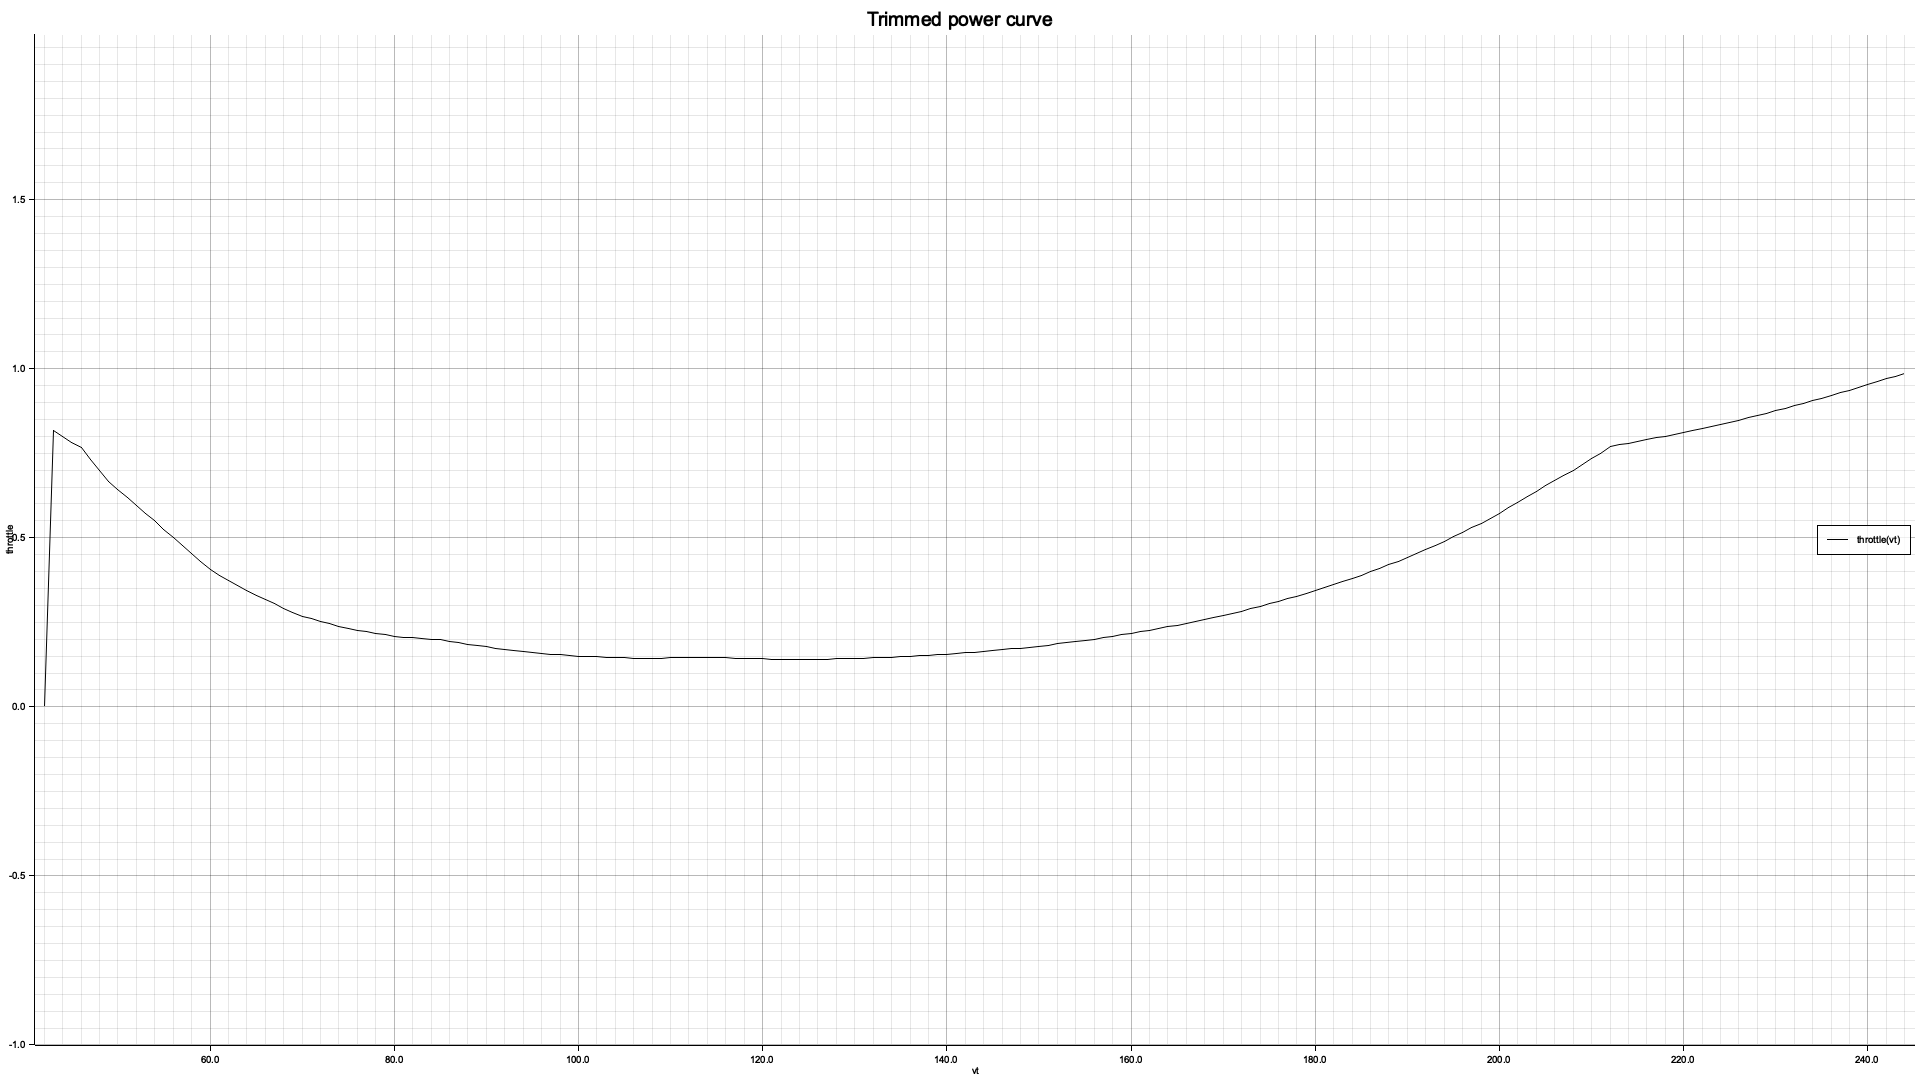
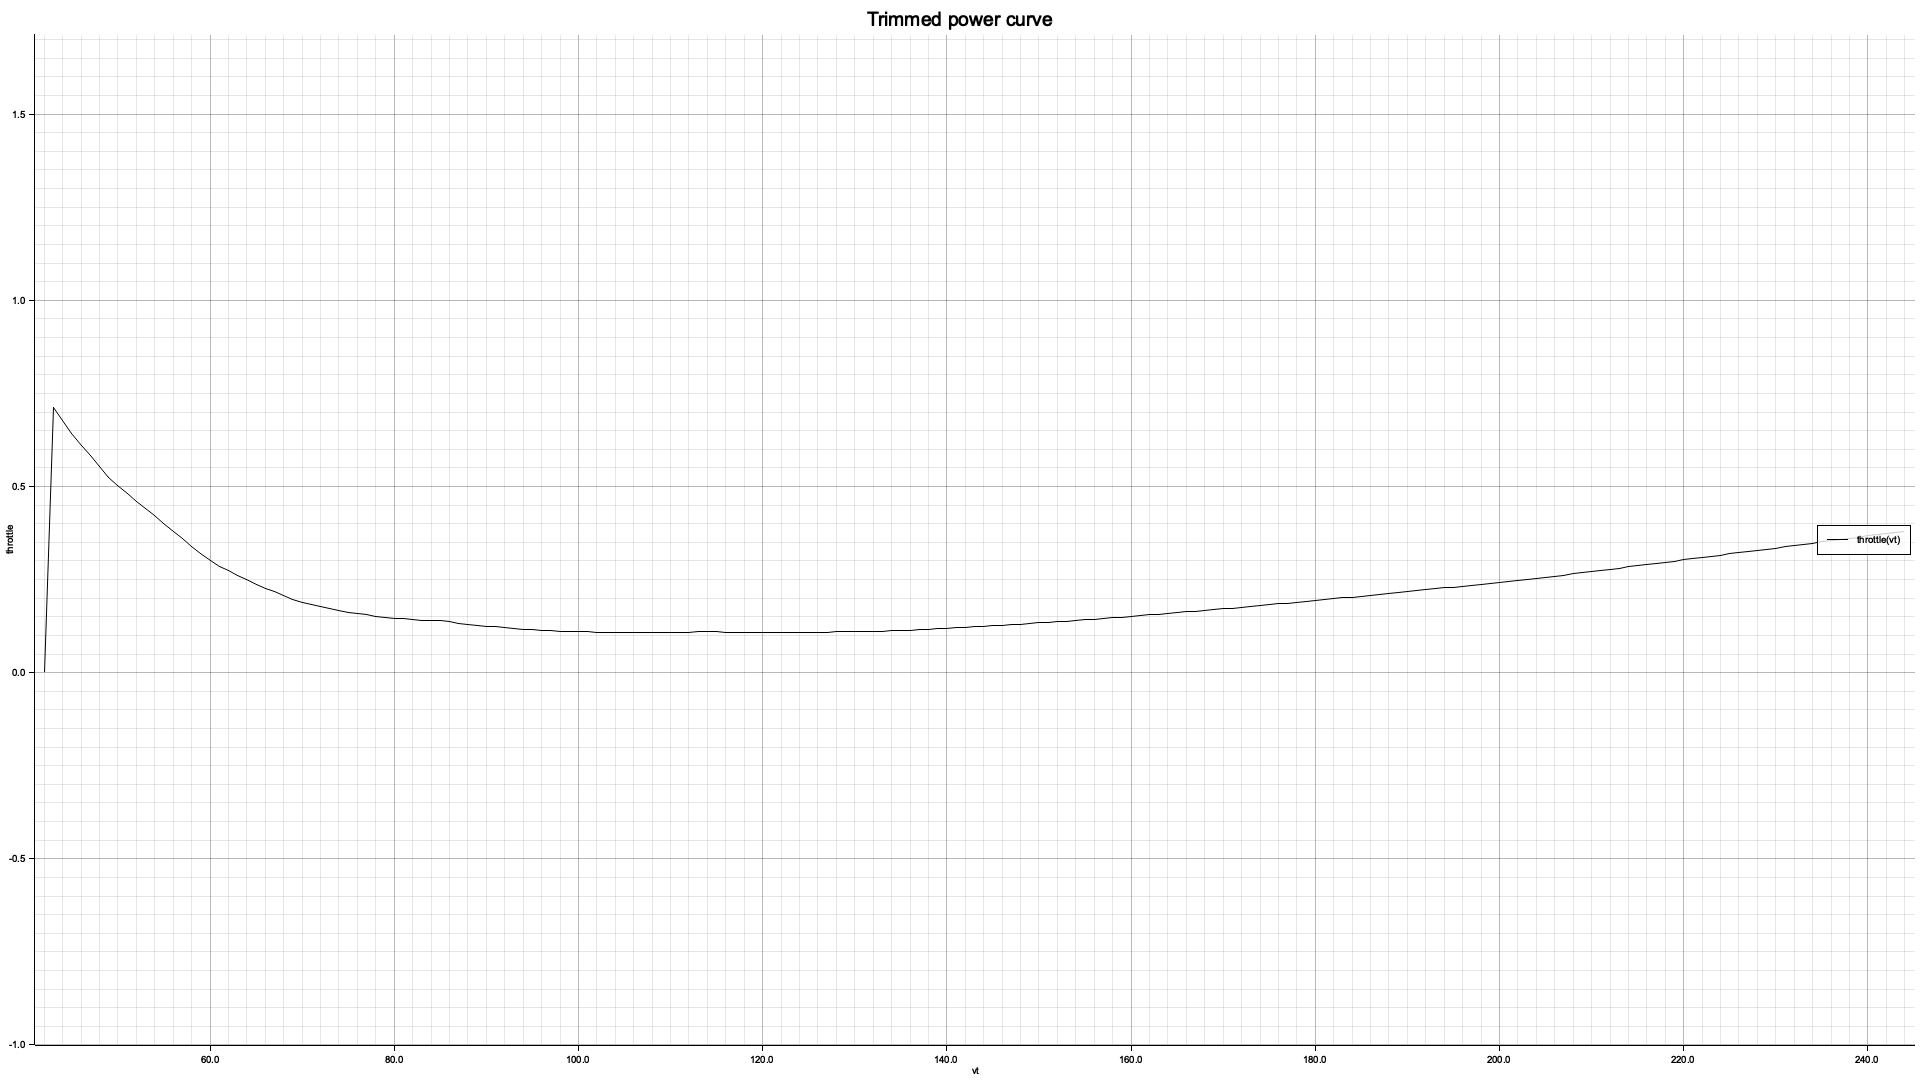
Fixed engine dynamics

diff --git a/src/model/dynamicmodel/fixedwing6dof.rs b/src/model/dynamicmodel/fixedwing6dof.rs
@@ -506,17 +506,17 @@ mod tests {
 
     #[test]
     fn textbook_model_test_vt() {
-        assert_approx(prepare_model().vt(), -25.74150, "vt_dot");
+        assert_approx(prepare_model().vt(), -22.933428, "vt_dot");
     }
 
     #[test]
     fn textbook_model_test_alpha() {
-        assert_approx(prepare_model().alpha(), -0.8708620, "alpha_dot");
+        assert_approx(prepare_model().alpha(), -0.8813417, "alpha_dot");
     }
 
     #[test]
     fn textbook_model_test_beta() {
-        assert_approx(prepare_model().beta(), -0.4797399, "beta_dot");
+        assert_approx(prepare_model().beta(), -0.4760048, "beta_dot");
     }
 
     #[test]
@@ -557,5 +557,60 @@ mod tests {
     #[test]
     fn textbook_model_test_power() {
         assert_approx(prepare_model().power(), -58.68999, "power_dot");
+    }
+
+    /// Trimmed level flight at sea level (nominal cg) must match Stevens &
+    /// Lewis Table 3.6-2. Speeds are converted from ft/s to m/s; throttle is
+    /// dimensionless and AOA / elevator are in degrees.
+    ///
+    /// The lowest tabulated speeds (130-170 ft/s) drive AOA toward ~45 deg,
+    /// the edge of the aero envelope where the book notes trimming becomes
+    /// ill-conditioned, so they are excluded here.
+    #[test]
+    fn trimmed_level_flight_matches_textbook_table_3_6_2() {
+        use crate::trim::TrimProblemBuilder;
+
+        const FT: f64 = 0.3048;
+        // (speed [ft/s], throttle [-], AOA [deg], elevator [deg])
+        let rows = [
+            (200.0, 0.287, 19.70, 0.723),
+            (300.0, 0.122, 8.49, -0.591),
+            (350.0, 0.107, 5.87, -0.539),
+            (500.0, 0.137, 2.14, -0.756),
+            (700.0, 0.282, 0.382, -0.900),
+            (800.0, 0.378, -0.045, -0.943),
+        ];
+
+        for (v_fts, throttle, aoa, elevator) in rows {
+            let vt = v_fts * FT;
+            let setpoints = dvector![vt, 0.0, 0.0, 0.0, 0.0, 0.0, 0.0, 0.0];
+            // Seed near the tabulated AOA so the optimizer locks onto the
+            // level-flight trim rather than a spurious local minimum.
+            let init = dvector![0.3, 0.0, aoa / RAD_TO_DEG, 0.0, 0.0, 0.0];
+            let problem = TrimProblemBuilder::new()
+                .for_system(F16::new())
+                .with_model(FixedWing6DoF)
+                .with_setpoints(setpoints)
+                .with_initial_params(init)
+                .build();
+            let (x, u, cost) = problem.trim().expect("trim returned an error");
+
+            assert!(cost < 1e-6, "vt={v_fts} ft/s did not converge: cost={cost}");
+            assert!(
+                (u.throttle() - throttle).abs() < 5e-3,
+                "vt={v_fts} ft/s throttle: expected {throttle}, got {}",
+                u.throttle()
+            );
+            assert!(
+                (x.alpha() * RAD_TO_DEG - aoa).abs() < 5e-2,
+                "vt={v_fts} ft/s AOA: expected {aoa}, got {}",
+                x.alpha() * RAD_TO_DEG
+            );
+            assert!(
+                (u.elevator() - elevator).abs() < 5e-2,
+                "vt={v_fts} ft/s elevator: expected {elevator}, got {}",
+                u.elevator()
+            );
+        }
     }
 }

diff --git a/src/model/engine/f100pw220.rs b/src/model/engine/f100pw220.rs
@@ -1,30 +1,30 @@
 use crate::model::engine::{Engine, engineparams::EngineParams};
 
 const IDLE_THRUST_LUT: [[f64; 6]; 6] = [
-    [4715.1, 2825.6, 3914.4, 5071.0, 6672.3, 8273.7],
-    [2824.6, 1890.5, 3069.3, 4492.7, 5915.5, 7561.9],
-    [266.9, 111.2, 1534.6, 3358.4, 5025.9, 6782.6],
-    [-4537.6, -3158.0, -1334.5, 1556.9, 4047.5, 6049.6],
-    [-12010.2, -8451.6, -5782.7, -1098.5, 2668.9, 4893.0],
-    [-16013.6, -6227.5, -2646.7, -1521.3, -889.6, 3113.7],
+    [4715.1, 2824.6, 266.9, -4537.6, -12010.2, -16013.6],
+    [2825.6, 1890.5, 111.2, -3158.0, -8451.6, -6227.5],
+    [3914.4, 3069.3, 1534.6, -1334.5, -5782.7, -2646.7],
+    [5071.0, 4492.7, 3358.4, 1556.9, -1098.5, -1521.3],
+    [6672.3, 5915.5, 5025.9, 4047.5, 2668.9, -889.6],
+    [8273.7, 7561.9, 6782.6, 6049.6, 4893.0, 3113.7],
 ];
 
 const MIL_THRUST_LUT: [[f64; 6]; 6] = [
-    [56403.4, 40701.2, 27579.0, 17570.5, 10898.1, 6227.5],
-    [56403.4, 40701.2, 28082.0, 17970.9, 10987.0, 6227.5],
-    [56092.8, 41407.5, 29401.3, 19083.1, 11565.4, 6938.2],
-    [56226.1, 43770.5, 31537.8, 20728.8, 12632.9, 7384.0],
-    [55118.4, 45262.8, 34473.7, 23665.3, 14456.7, 8585.1],
-    [51955.4, 43803.9, 35808.2, 27134.2, 16903.2, 10275.5],
+    [56403.4, 56403.4, 56092.8, 56226.1, 55118.4, 51955.4],
+    [40701.2, 40701.2, 41407.5, 43770.5, 45262.8, 43803.9],
+    [27579.0, 28082.0, 29401.3, 31537.8, 34473.7, 35808.2],
+    [17570.5, 17970.9, 19083.1, 20728.8, 23665.3, 27134.2],
+    [10898.1, 10987.0, 11565.4, 12632.9, 14456.7, 16903.2],
+    [6227.5, 6227.5, 6938.2, 7384.0, 8585.1, 10275.5],
 ];
 
 const MAX_THRUST_LUT: [[f64; 6]; 6] = [
-    [88964.0, 66723.3, 48040.8, 31137.5, 17792.9, 11120.6],
-    [95280.8, 69836.9, 49924.0, 32572.5, 19727.5, 11565.4],
-    [100973.9, 74986.9, 54491.5, 36263.5, 22241.1, 12610.9],
-    [107824.5, 84096.6, 61207.9, 41304.5, 25354.9, 14298.9],
-    [115944.5, 93730.7, 71069.7, 49447.3, 30514.8, 17570.5],
-    [128458.9, 103736.7, 81402.7, 59972.4, 38435.1, 22492.7],
+    [88964.0, 95280.8, 100973.9, 107824.5, 115944.5, 128458.9],
+    [66723.3, 69836.9, 74986.9, 84096.6, 93730.7, 103736.7],
+    [48040.8, 49924.0, 54491.5, 61207.9, 71069.7, 81402.7],
+    [31137.5, 32572.5, 36263.5, 41304.5, 49447.3, 59972.4],
+    [17792.9, 19727.5, 22241.1, 25354.9, 30514.8, 38435.1],
+    [11120.6, 11565.4, 12610.9, 14298.9, 17570.5, 22492.7],
 ];
 
 /// A struct representing an F-100-PW-220 aircraft engine
@@ -160,8 +160,8 @@ mod tests {
     #[test]
     fn can_access_luts() {
         assert_eq!(IDLE_THRUST_LUT[1][1], 1890.5);
-        assert_eq!(MIL_THRUST_LUT[3][5], 7384.0);
-        assert_eq!(MAX_THRUST_LUT[5][0], 128458.9);
+        assert_eq!(MIL_THRUST_LUT[3][5], 27134.2);
+        assert_eq!(MAX_THRUST_LUT[5][0], 11120.6);
     }
 
     #[test]
@@ -233,7 +233,7 @@ mod tests {
     #[test]
     fn thrust_for_various_regimes() {
         let f100pw220 = F100PW220::new();
-        assert_eq!(f100pw220.thrust(30.0, 0.0, 0.2), 25550.96); // IDLE/MIL
-        assert_eq!(f100pw220.thrust(85.0, 0.0, 0.2), 58916.67); // MIL/MAX
+        assert!((f100pw220.thrust(30.0, 0.0, 0.2) - 34971.88).abs() < 1e-2); // IDLE/MIL
+        assert!((f100pw220.thrust(85.0, 0.0, 0.2) - 83617.58).abs() < 1e-2); // MIL/MAX
     }
 }

diff --git a/src/trim/mod.rs b/src/trim/mod.rs
@@ -393,7 +393,7 @@ mod tests {
         assert!((x.phi() * RAD_TO_DEG - 66.9).abs() < 1.0);
         // Steady-state angle of attack and throttle for the turn.
         assert!((x.alpha() * RAD_TO_DEG - 7.0).abs() < 0.5);
-        assert!((u.throttle() - 0.72).abs() < 0.03);
+        assert!((u.throttle() - 0.334).abs() < 0.03);
         Ok(())
     }
 }